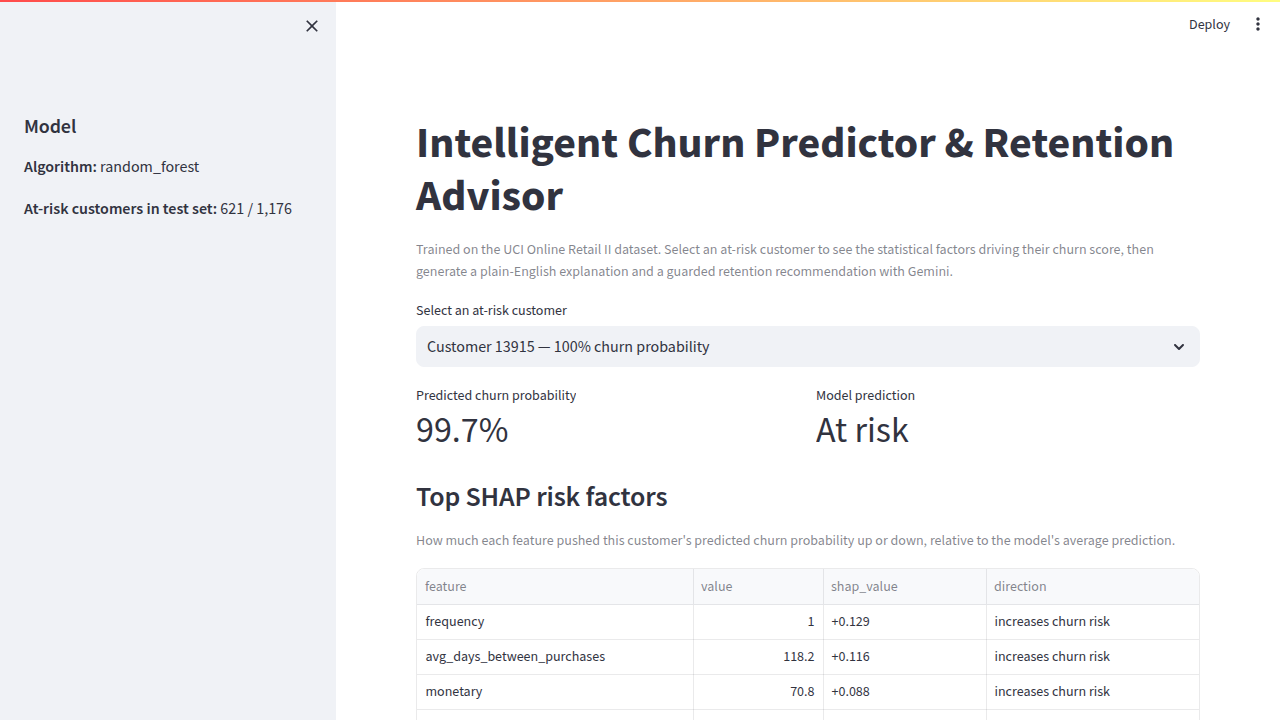
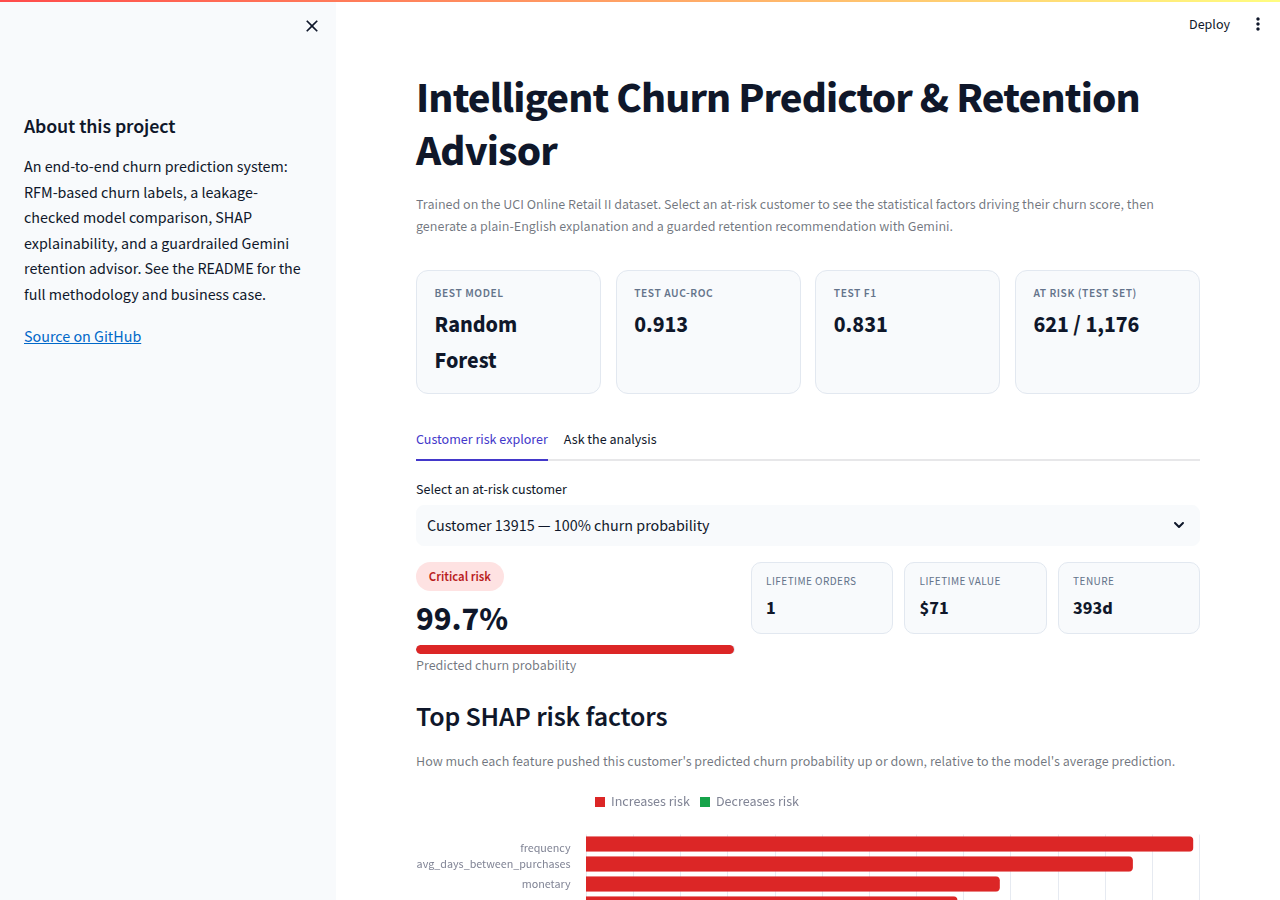
Redesign the Streamlit UI: KPI cards, risk badges, and a real SHAP chart
Replaces the plain SHAP factor table with a horizontal Altair bar chart
(color-coded by direction), adds a top-level KPI row (best model, test
AUC-ROC/F1, at-risk count), a color-coded risk-tier badge + probability
bar per customer, and small stat cards for lifetime orders/value/tenure.
Recommendation and RAG-answer results now render in bordered containers
with a styled action pill / source chips.

Adds .streamlit/config.toml for a consistent theme (previously unset).

Security note: all Gemini-generated free text (explanations, RAG answers)
still only ever reaches the page through st.write()/st.markdown() without
unsafe_allow_html, so it stays markdown-escaped. unsafe_allow_html is used
only for values this code computes itself or that come from the fixed
ALLOWED_ACTIONS / corpus-source lists -- documented in a module docstring
note so this invariant is easy to check on future edits.

Also fixes a real Streamlit/Altair rendering bug found while building the
chart: an explicit .properties(height=...) combined with
use_container_width=True corrupted the y-band layout for a discrete scale
in this Streamlit version (bars collapsed onto each other). Confirmed by
rendering the identical spec through vl-convert (server-side, no browser)
where it was correct, isolating the bug to that Streamlit resize path;
fixed by dropping the explicit height and letting it auto-size.

Regenerated screenshots/app_dashboard.png, app_gemini_response.png,
[…]

diff --git a/src/app.py b/src/app.py
@@ -11,18 +11,78 @@ loads pre-computed artifacts from models/ (built by train_model.py and
 explain.py) and calls into explain.py / genai_advisor.py. That keeps the
 UI layer thin and means the exact same scoring/explanation logic is used
 whether it's invoked from the CLI or from this app.
+
+Styling note: text generated by Gemini (per-customer explanations, RAG
+answers) is only ever rendered through st.write()/st.markdown() WITHOUT
+unsafe_allow_html, so it's always markdown-escaped and can't inject raw
+HTML/JS into the page. unsafe_allow_html is used only for the card/badge
+styling below, and only wraps values we computed ourselves (probabilities,
+feature names) or that come from the fixed ALLOWED_ACTIONS / corpus-source
+lists -- never free-form model output.
 """
 
+import html
+import json
+
+import altair as alt
 import joblib
 import pandas as pd
 import streamlit as st
 
-from config import FEATURE_COLUMNS, ID_COLUMN, MODEL_PATH, SHAP_VALUES_PATH, TEST_FEATURES_PATH, TEST_PREDICTIONS_PATH
+from config import (
+    FEATURE_COLUMNS,
+    ID_COLUMN,
+    METRICS_PATH,
+    MODEL_PATH,
+    SHAP_VALUES_PATH,
+    TEST_FEATURES_PATH,
+    TEST_PREDICTIONS_PATH,
+)
 from explain import get_top_factors
 from genai_advisor import generate_customer_explanation
 from rag_assistant import answer_question, load_or_build_index
 
 st.set_page_config(page_title="Churn Predictor & Retention Advisor", layout="wide")
+
+CUSTOM_CSS = """
+<style>
+.block-container { padding-top: 2.2rem; max-width: 1180px; }
+h1 { letter-spacing: -0.02em; }
+
+.stat-row { display: flex; gap: 0.9rem; flex-wrap: wrap; margin: 1rem 0 1.6rem 0; }
+.stat-card {
+    flex: 1; min-width: 160px;
+    background: #F8FAFC; border: 1px solid #E2E8F0; border-radius: 12px;
+    padding: 0.85rem 1.1rem;
+}
+.stat-label { font-size: 0.72rem; font-weight: 600; color: #64748B; text-transform: uppercase; letter-spacing: 0.05em; margin-bottom: 0.3rem; }
+.stat-value { font-size: 1.4rem; font-weight: 700; color: #0F172A; }
+
+.risk-badge { display: inline-block; padding: 0.28rem 0.8rem; border-radius: 999px; font-weight: 600; font-size: 0.8rem; margin-bottom: 0.55rem; }
+.risk-critical { background: #FEE2E2; color: #B91C1C; }
+.risk-high     { background: #FFEDD5; color: #C2410C; }
+.risk-elevated { background: #FEF9C3; color: #A16207; }
+
+.prob-value { font-size: 2.1rem; font-weight: 700; color: #0F172A; line-height: 1.1; }
+.prob-track { background: #E2E8F0; border-radius: 999px; height: 9px; width: 100%; overflow: hidden; margin-top: 0.5rem; }
+.prob-fill { height: 100%; border-radius: 999px; }
+
+.mini-stat-row { display: flex; gap: 0.7rem; }
+.mini-stat { flex: 1; background: #F8FAFC; border: 1px solid #E2E8F0; border-radius: 10px; padding: 0.65rem 0.9rem; }
+.mini-label { font-size: 0.7rem; color: #64748B; text-transform: uppercase; letter-spacing: 0.04em; }
+.mini-value { font-size: 1.15rem; font-weight: 700; color: #0F172A; margin-top: 0.15rem; }
+
+.action-pill {
+    display: inline-block; font-weight: 700; font-size: 0.9rem; color: #166534;
+    background: #DCFCE7; border-radius: 8px; padding: 0.3rem 0.75rem; margin-bottom: 0.6rem;
+}
+.source-chip {
+    display: inline-block; background: #EEF2FF; color: #4338CA; border-radius: 6px;
+    padding: 0.18rem 0.6rem; font-size: 0.74rem; font-family: ui-monospace, SFMono-Regular, Menlo, monospace;
+    margin: 0.2rem 0.35rem 0.2rem 0;
+}
+</style>
+"""
 
 
 def _escape_markdown_dollars(text):
@@ -39,6 +99,14 @@ def _escape_markdown_dollars(text):
     return text.replace("$", r"\$") if text else text
 
 
+def _risk_tier(prob):
+    if prob >= 0.9:
+        return "Critical risk", "risk-critical", "#DC2626"
+    if prob >= 0.75:
+        return "High risk", "risk-high", "#EA580C"
+    return "Elevated risk", "risk-elevated", "#CA8A04"
+
+
 @st.cache_resource
 def load_artifacts():
     model_bundle = joblib.load(MODEL_PATH)
@@ -49,12 +117,36 @@ def load_artifacts():
 
 
 @st.cache_resource
+def load_metrics():
+    with open(METRICS_PATH) as f:
+        return json.load(f)
+
+
+@st.cache_resource
 def load_rag_index():
     # Cached per app process: building the index costs one Gemini API call
     # per corpus chunk (~12), which only needs to happen once whether it's
     # loaded from a locally pre-built models/rag_index.joblib or embedded
     # fresh on first use (e.g. a freshly deployed Streamlit Cloud app).
     return load_or_build_index()
+
+
+def render_kpi_row(model_bundle, metrics, at_risk_count, total_count):
+    st.markdown(
+        f"""
+        <div class="stat-row">
+            <div class="stat-card"><div class="stat-label">Best model</div>
+                <div class="stat-value">{html.escape(model_bundle['model_name'].replace('_', ' ').title())}</div></div>
+            <div class="stat-card"><div class="stat-label">Test AUC-ROC</div>
+                <div class="stat-value">{metrics['test_metrics']['test_roc_auc']:.3f}</div></div>
+            <div class="stat-card"><div class="stat-label">Test F1</div>
+                <div class="stat-value">{metrics['test_metrics']['test_f1']:.3f}</div></div>
+            <div class="stat-card"><div class="stat-label">At risk (test set)</div>
+                <div class="stat-value">{at_risk_count:,} / {total_count:,}</div></div>
+        </div>
+        """,
+        unsafe_allow_html=True,
+    )
 
 
 def render_customer_explorer(model_bundle, shap_bundle, predictions, test_features):
@@ -76,12 +168,35 @@ def render_customer_explorer(model_bundle, shap_bundle, predictions, test_featur
     customer_id = id_lookup[selected_label]
 
     customer_row = predictions[predictions[ID_COLUMN] == customer_id].iloc[0]
-    col1, col2 = st.columns(2)
-    col1.metric("Predicted churn probability", f"{customer_row['churn_probability']:.1%}")
-    col2.metric("Model prediction", "At risk" if customer_row["y_pred"] == 1 else "Not at risk")
+    feature_row = test_features[test_features[ID_COLUMN] == customer_id].iloc[0]
+    prob = customer_row["churn_probability"]
+    tier_label, tier_class, tier_color = _risk_tier(prob)
+
+    col1, col2 = st.columns([1, 1.4])
+    with col1:
+        st.markdown(
+            f"""
+            <div class="risk-badge {tier_class}">{tier_label}</div>
+            <div class="prob-value">{prob:.1%}</div>
+            <div class="prob-track"><div class="prob-fill" style="width:{prob * 100:.1f}%; background:{tier_color};"></div></div>
+            """,
+            unsafe_allow_html=True,
+        )
+        st.caption("Predicted churn probability")
+    with col2:
+        st.markdown(
+            f"""
+            <div class="mini-stat-row">
+                <div class="mini-stat"><div class="mini-label">Lifetime orders</div><div class="mini-value">{int(feature_row['frequency']):,}</div></div>
+                <div class="mini-stat"><div class="mini-label">Lifetime value</div><div class="mini-value">${feature_row['monetary']:,.0f}</div></div>
+                <div class="mini-stat"><div class="mini-label">Tenure</div><div class="mini-value">{int(feature_row['tenure_days']):,}d</div></div>
+            </div>
+            """,
+            unsafe_allow_html=True,
+        )
 
     # test_features carries the exact feature vector explain.py computed
-    # SHAP values against, so the table shown here matches the model input.
+    # SHAP values against, so the chart shown here matches the model input.
     top_factors = get_top_factors(customer_id, shap_df, test_features[FEATURE_COLUMNS], test_features[ID_COLUMN], top_n=5)
 
     st.subheader("Top SHAP risk factors")
@@ -89,26 +204,59 @@ def render_customer_explorer(model_bundle, shap_bundle, predictions, test_featur
         "How much each feature pushed this customer's predicted churn probability up or down, "
         "relative to the model's average prediction."
     )
-    display_factors = top_factors.copy()
-    display_factors["shap_value"] = display_factors["shap_value"].map(lambda v: f"{v:+.3f}")
-    st.dataframe(display_factors, use_container_width=True, hide_index=True)
+
+    # top_factors is already sorted by |impact| descending (see
+    # explain.get_top_factors); pin the chart's category order to that same
+    # list rather than an in-chart "sort=-x" expression.
+    chart_df = top_factors.copy()
+    feature_order = chart_df["feature"].tolist()
+    chart_df["direction_label"] = chart_df["direction"].map(
+        {"increases churn risk": "Increases risk", "decreases churn risk": "Decreases risk"}
+    )
+    chart = (
+        alt.Chart(chart_df)
+        .mark_bar(cornerRadiusEnd=4)
+        .encode(
+            x=alt.X("shap_value:Q", title="Impact on churn probability"),
+            y=alt.Y("feature:N", sort=feature_order, title=None, axis=alt.Axis(labelLimit=200)),
+            color=alt.Color(
+                "direction_label:N",
+                title=None,
+                scale=alt.Scale(domain=["Increases risk", "Decreases risk"], range=["#DC2626", "#16A34A"]),
+                legend=alt.Legend(orient="top", title=None),
+            ),
+            tooltip=[
+                alt.Tooltip("feature:N", title="Feature"),
+                alt.Tooltip("value:Q", title="Customer value", format=",.1f"),
+                alt.Tooltip("shap_value:Q", title="SHAP impact", format="+.3f"),
+            ],
+        )
+    )
+    st.altair_chart(chart, use_container_width=True)
 
     st.subheader("Gemini retention recommendation")
     if st.button("Generate explanation", type="primary"):
         with st.spinner("Calling Gemini..."):
             result = generate_customer_explanation(
                 customer_id=customer_id,
-                churn_probability=customer_row["churn_probability"],
+                churn_probability=prob,
                 top_factors=top_factors.to_dict("records"),
             )
 
         if result["needs_manual_review"]:
-            st.warning(f"⚠ Flagged for manual review: {result['error']}")
-            if result["explanation"]:
-                st.write(f"**Model's explanation (unvalidated):** {_escape_markdown_dollars(result['explanation'])}")
+            with st.container(border=True):
+                st.warning(f"Flagged for manual review: {result['error']}")
+                if result["explanation"]:
+                    st.caption("Model's explanation (unvalidated):")
+                    st.write(_escape_markdown_dollars(result["explanation"]))
         else:
-            st.success(f"**Recommended action:** {result['recommended_action']}")
-            st.write(_escape_markdown_dollars(result["explanation"]))
+            # recommended_action is guaranteed to be an exact match from the
+            # fixed ALLOWED_ACTIONS list (see genai_advisor.py's guardrail
+            # check) whenever needs_manual_review is False, so it's safe to
+            # place directly in this unsafe_allow_html block.
+            with st.container(border=True):
+                st.markdown(f'<div class="action-pill">{result["recommended_action"]}</div>', unsafe_allow_html=True)
+                st.write(_escape_markdown_dollars(result["explanation"]))
 
 
 EXAMPLE_QUESTIONS = [
@@ -139,14 +287,22 @@ def render_ask_the_analysis():
                 result = {"answer": None, "sources": [], "error": f"Could not build/load the RAG index: {exc}"}
 
         if result["error"]:
-            st.warning(f"⚠ {result['error']}")
+            st.warning(result["error"])
         else:
-            st.success(_escape_markdown_dollars(result["answer"]))
-            if result["sources"]:
-                st.caption("Sources: " + ", ".join(f"`{s}`" for s in result["sources"]))
+            with st.container(border=True):
+                st.write(_escape_markdown_dollars(result["answer"]))
+                if result["sources"]:
+                    # Source keys come from our own indexed corpus (file
+                    # names / chunk labels defined in rag_assistant.py), not
+                    # from the model, but they're escaped anyway as cheap
+                    # defense-in-depth before going into unsafe_allow_html.
+                    chips = "".join(f'<span class="source-chip">{html.escape(s)}</span>' for s in result["sources"])
+                    st.markdown(f'<div style="margin-top:0.5rem;">{chips}</div>', unsafe_allow_html=True)
 
 
 def main():
+    st.markdown(CUSTOM_CSS, unsafe_allow_html=True)
+
     st.title("Intelligent Churn Predictor & Retention Advisor")
     st.caption(
         "Trained on the UCI Online Retail II dataset. Select an at-risk customer to see "
@@ -156,6 +312,7 @@ def main():
 
     try:
         model_bundle, shap_bundle, predictions, test_features = load_artifacts()
+        metrics = load_metrics()
     except FileNotFoundError:
         st.error(
             "Model artifacts not found. Run the pipeline first:\n\n"
@@ -164,9 +321,16 @@ def main():
         st.stop()
 
     at_risk = predictions[predictions["y_pred"] == 1]
-    st.sidebar.header("Model")
-    st.sidebar.write(f"**Algorithm:** {model_bundle['model_name']}")
-    st.sidebar.write(f"**At-risk customers in test set:** {len(at_risk):,} / {len(predictions):,}")
+    render_kpi_row(model_bundle, metrics, len(at_risk), len(predictions))
+
+    st.sidebar.header("About this project")
+    st.sidebar.write(
+        "An end-to-end churn prediction system: RFM-based churn labels, a "
+        "leakage-checked model comparison, SHAP explainability, and a "
+        "guardrailed Gemini retention advisor. See the README for the full "
+        "methodology and business case."
+    )
+    st.sidebar.markdown("[Source on GitHub](https://github.com/Daton-Star/churn-predictor-retention-advisor)")
 
     tab1, tab2 = st.tabs(["Customer risk explorer", "Ask the analysis"])
     with tab1:

diff --git a/README.md b/README.md
@@ -19,7 +19,7 @@ using Google's Gemini API — built entirely on free tools.
 
 | Customer risk dashboard | Guardrail in action | Ask the analysis (RAG) |
 |---|---|---|
-| ![App dashboard: at-risk customer dropdown, churn probability, and SHAP risk factor table](screenshots/app_dashboard.png) | ![Gemini section flagging a missing API key for manual review instead of failing silently](screenshots/app_gemini_response.png) | ![The RAG assistant tab, with example questions and an input box](screenshots/app_rag_tab.png) |
+| ![App dashboard: at-risk customer dropdown, risk badge and probability bar, and a SHAP risk factor chart](screenshots/app_dashboard.png) | ![Gemini section flagging a missing API key for manual review instead of failing silently](screenshots/app_gemini_response.png) | ![The RAG assistant tab, with example questions and an input box](screenshots/app_rag_tab.png) |
 | Select any at-risk customer to see their churn probability and top SHAP risk factors. | The middle screenshot shows the guardrail path (no API key configured) rather than a live Gemini call — add your own key (setup below) to see a real generated explanation and recommendation. | Ask a free-form question about the project's own analysis; answers are grounded in retrieved context, same honesty note as above applies. |
 
 ## 1. Business problem
